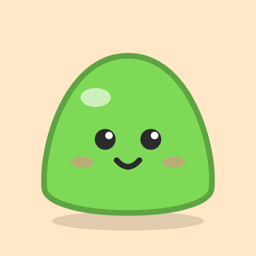
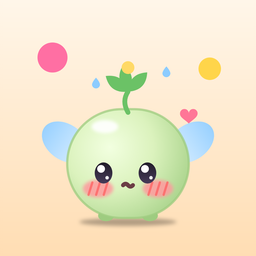
로직 페이지: 주인공을 콩콩으로 (문구, 아이콘)
Claude-Session: https://claude.ai/code/session_01XDRabmtEwRDVm6dcqpEMZ9

diff --git a/logic/index.html b/logic/index.html
@@ -4,10 +4,10 @@
 <meta charset="utf-8">
 <meta name="viewport" content="width=device-width, initial-scale=1, viewport-fit=cover">
 <title>모찌노키 로직 · 카드로 길을 짜는 논리 퍼즐</title>
-<meta name="description" content="젤리 친구 콩과 함께 명령 카드 퍼즐과 정렬 레이스로 논리력과 수학을 키우는 퍼즐 게임.">
+<meta name="description" content="새싹 친구 콩콩과 함께 명령 카드 퍼즐과 정렬 레이스로 논리력과 수학을 키우는 퍼즐 게임.">
 <link rel="canonical" href="https://mochinoki-studio.github.io/logic/">
 <meta property="og:title" content="모찌노키 로직 · 카드로 길을 짜는 논리 퍼즐">
-<meta property="og:description" content="젤리 친구 콩과 함께 명령 카드 퍼즐과 정렬 레이스로 논리력과 수학을 키우는 퍼즐 게임.">
+<meta property="og:description" content="새싹 친구 콩콩과 함께 명령 카드 퍼즐과 정렬 레이스로 논리력과 수학을 키우는 퍼즐 게임.">
 <meta property="og:image" content="https://mochinoki-studio.github.io/logic/assets/img/icon.png">
 <link rel="icon" href="assets/img/favicon.png">
 <link rel="apple-touch-icon" href="assets/img/icon.png">
@@ -23,14 +23,14 @@
       <button type="button" data-mode="system">시스템</button><button type="button" data-mode="light">라이트</button><button type="button" data-mode="dark">다크</button>
     </div>
     <div class="hero-row"><img src="assets/img/icon.png" alt="모찌노키 로직"><h1>카드로 길을 짜고,<br>숫자를 줄 세워요</h1></div>
-    <p class="lead">말랑한 젤리 친구 콩에게 화살표, 반복, 조건 카드를 건네 사탕 상자까지 데려다주세요. 숫자 블록을 바꿔 라이벌 말랑이보다 먼저 정렬해 보세요. 초등 1학년부터 고등 3학년까지, 수학 교육과정을 따라 10개의 월드가 이어져요.</p>
-    <div class="chips"><span>🃏 명령 카드 퍼즐</span><span>🔢 정렬 레이스</span><span>🍬 숫자 사탕 더하기</span><span>🗺 10개 월드</span><span>⭐ 카드가 적을수록 별</span><span>🎨 콩 꾸미기</span><span>🎁 모든 기능 무료</span><span>🙅 광고 없음</span><span>📴 오프라인</span></div>
-    <div class="shots"><figure><img loading="lazy" decoding="async" src="assets/img/home.jpg" alt="말랑한 젤리 친구 콩" width="480" height="1039"><figcaption>말랑한 젤리 친구 콩</figcaption></figure><figure><img loading="lazy" decoding="async" src="assets/img/puzzle.jpg" alt="명령 카드로 길 짜기" width="480" height="1039"><figcaption>명령 카드로 길 짜기</figcaption></figure><figure><img loading="lazy" decoding="async" src="assets/img/race.jpg" alt="말랑이와 정렬 레이스" width="480" height="1039"><figcaption>말랑이와 정렬 레이스</figcaption></figure><figure><img loading="lazy" decoding="async" src="assets/img/clear.jpg" alt="적은 카드로 별 세 개" width="480" height="1039"><figcaption>적은 카드로 별 세 개</figcaption></figure></div>
+    <p class="lead">새싹 친구 콩콩에게 화살표, 반복, 조건 카드를 건네 사탕 상자까지 데려다주세요. 숫자 블록을 바꿔 라이벌 말랑이보다 먼저 정렬해 보세요. 초등 1학년부터 고등 3학년까지, 수학 교육과정을 따라 10개의 월드가 이어져요.</p>
+    <div class="chips"><span>🃏 명령 카드 퍼즐</span><span>🔢 정렬 레이스</span><span>🍬 숫자 사탕 더하기</span><span>🗺 10개 월드</span><span>⭐ 카드가 적을수록 별</span><span>🎨 콩콩 날개 꾸미기</span><span>🎁 모든 기능 무료</span><span>🙅 광고 없음</span><span>📴 오프라인</span></div>
+    <div class="shots"><figure><img loading="lazy" decoding="async" src="assets/img/home.jpg" alt="새싹 친구 콩콩" width="480" height="1039"><figcaption>새싹 친구 콩콩</figcaption></figure><figure><img loading="lazy" decoding="async" src="assets/img/puzzle.jpg" alt="명령 카드로 길 짜기" width="480" height="1039"><figcaption>명령 카드로 길 짜기</figcaption></figure><figure><img loading="lazy" decoding="async" src="assets/img/race.jpg" alt="말랑이와 정렬 레이스" width="480" height="1039"><figcaption>말랑이와 정렬 레이스</figcaption></figure><figure><img loading="lazy" decoding="async" src="assets/img/clear.jpg" alt="적은 카드로 별 세 개" width="480" height="1039"><figcaption>적은 카드로 별 세 개</figcaption></figure></div>
   </header>
 
   <section id="how">
     <h2>이렇게 놀아요</h2>
-    <ol class="steps"><li>판마다 콩이 가야 할 사탕 상자가 있어요. 벽과 숫자 사탕의 위치를 먼저 살펴봐요.</li><li>아래 카드를 눌러 명령을 순서대로 놓아요. 같은 움직임이 되풀이되면 반복 카드에 넣어요.</li><li>실행을 누르면 콩이 카드대로 움직여요. 벽에 부딪히거나 사탕 합이 틀리면 다시 고쳐 봐요.</li><li>도착하면 사용한 카드 수로 별을 받아요. 더 적은 카드로 다시 도전해 별 세 개를 모아요.</li></ol>
+    <ol class="steps"><li>판마다 콩콩이 가야 할 사탕 상자가 있어요. 벽과 숫자 사탕의 위치를 먼저 살펴봐요.</li><li>아래 카드를 눌러 명령을 순서대로 놓아요. 같은 움직임이 되풀이되면 반복 카드에 넣어요.</li><li>실행을 누르면 콩콩이 카드대로 움직여요. 벽에 부딪히거나 사탕 합이 틀리면 다시 고쳐 봐요.</li><li>도착하면 사용한 카드 수로 별을 받아요. 더 적은 카드로 다시 도전해 별 세 개를 모아요.</li></ol>
   </section>
 
   <section id="features">
@@ -38,7 +38,7 @@
     <div class="pair"><div class="mini f1"><h3>🃏 순서대로 생각하기</h3><p>화살표 카드로 시작해 반복 카드, "막힐 때까지" 조건 카드까지. 코딩의 기본 생각법을 퍼즐로 익혀요.</p></div>
 <div class="mini f2"><h3>🔢 정렬 레이스</h3><p>정해진 교환 횟수 안에 블록을 작은 수부터 줄 세워요. 옆끼리만 바꾸는 판, 아무 둘이나 바꾸는 판마다 다른 전략이 필요해요.</p></div>
 <div class="mini f3"><h3>🗺 교육과정을 따라가는 월드</h3><p>숫자 공장, 곱셈 농장, 분수 베이커리부터 함수 연구소, 미적분 썰매 언덕까지. 배우는 순서대로 퍼즐 속 수학이 자라요.</p></div>
-<div class="mini f4"><h3>🎨 나만의 콩</h3><p>콩은 성별이 없는 젤리 생명체예요. 색과 옷, 모자로 마음대로 꾸며요.</p></div></div>
+<div class="mini f4"><h3>🎨 나만의 콩콩</h3><p>콩콩은 모찌 노키의 새싹 친구예요. 날개 색을 골라 마음대로 꾸며요.</p></div></div>
   </section>
 
   <section id="privacy">
@@ -52,7 +52,7 @@
     <div class="note"><ul><li>iPhone·iPad 먼저 출시하고, Android는 그다음에 준비해요.</li><li>10개 월드와 모든 기능이 처음부터 끝까지 무료예요. <a href="pricing.html">무엇이 들어 있는지 보기</a></li><li>광고, 인앱 결제, 확률형 아이템이 없어요.</li><li>힌트만 하루 2번까지 쓸 수 있어요. 스스로 생각해 보는 시간을 지켜 주려고요.</li></ul></div>
   </section>
 
-  <p class="closing">오늘은 카드 몇 장으로<br>콩을 데려다줄 수 있을까요? 🍬</p>
+  <p class="closing">오늘은 카드 몇 장으로<br>콩콩을 데려다줄 수 있을까요? 🍬</p>
   <footer><a href="https://mochinoki-studio.github.io/">← 모찌노키 스튜디오</a> · 모찌노키 로직 · iPhone·iPad 앱 · <a href="https://www.apple.com/legal/internet-services/itunes/dev/stdeula/">이용약관</a> · <a href="https://github.com/mochinoki-studio/mochinoki-studio.github.io/issues">GitHub에서 문의하기</a> · <a href="mailto:hello.mochinoki@gmail.com">hello.mochinoki@gmail.com</a></footer>
 </main>
 <script>

diff --git a/logic/pricing.html b/logic/pricing.html
@@ -18,7 +18,7 @@
 <header class="site"><div><a class="brand" href="./"><img src="assets/img/icon.png" alt="">모찌노키 로직</a><a href="pricing.html" aria-current="page">가격</a><a href="releases.html">업데이트 소식</a><a href="support.html">도움말</a><a href="privacy.html">개인정보 처리방침</a></div></header>
 <main class="doc compare">
   <header><h1>모두 무료예요</h1><p class="soft">모찌노키 로직은 10개 월드와 모든 기능을 무료로 제공해요. 광고도, 인앱 결제도, 계정도 없어요. 단 하나, 힌트만 하루 2번까지 쓸 수 있어요.</p><p class="legend"><span><span class="mk yes">✓</span> 무료로 사용</span><span><span class="mk lim">◐</span> 제한 있음</span></p></header>
-  <section><div class="ptable"><div class="in narrow"><div class="r one head"><span></span><div class="pp best"><b>무료</b><span class="soft">모든 월드 · 모든 기능</span><span class="price">0원</span></div></div><div class="grp">월드</div><div class="r one"><span>초등 월드 1~4 (숫자 공장 · 곱셈 농장 · 분수 베이커리 · 도형 정원)</span><span><span class="mk yes" role="img" aria-label="무료로 사용" title="무료로 사용">✓</span><small>전체</small></span></div><div class="r one"><span>중등 월드 5~7 (방정식 저울탑 · 함수 연구소 · 확률 기상대)</span><span><span class="mk yes" role="img" aria-label="무료로 사용" title="무료로 사용">✓</span><small>전체</small></span></div><div class="r one"><span>고등 월드 8~10 (지수 우주정거장 · 수열 기찻길 · 미적분 썰매 언덕)</span><span><span class="mk yes" role="img" aria-label="무료로 사용" title="무료로 사용">✓</span><small>전체</small></span></div><div class="grp">매일 퍼즐</div><div class="r one"><span>데일리 퍼즐</span><span><span class="mk yes" role="img" aria-label="무료로 사용" title="무료로 사용">✓</span><small>하루 1개</small></span></div><div class="r one"><span>연습 퍼즐 (지금까지 연 월드에서 골고루)</span><span><span class="mk yes" role="img" aria-label="무료로 사용" title="무료로 사용">✓</span><small>하루 5개</small></span></div><div class="grp">도움과 기록</div><div class="r one"><span>힌트</span><span><span class="mk lim" role="img" aria-label="제한 있음" title="제한 있음">◐</span><small>하루 2번 · 매일 오전 9시(한국)에 채워져요</small></span></div><div class="r one"><span>학습 리포트 (어떤 개념에서 막혔는지)</span><span><span class="mk yes" role="img" aria-label="무료로 사용" title="무료로 사용">✓</span></span></div><div class="r one"><span>별과 진행 기록 (기기 안에 저장)</span><span><span class="mk yes" role="img" aria-label="무료로 사용" title="무료로 사용">✓</span></span></div><div class="grp">꾸미기</div><div class="r one"><span>콩의 색 · 옷 · 모자</span><span><span class="mk yes" role="img" aria-label="무료로 사용" title="무료로 사용">✓</span><small>전부</small></span></div><div class="grp">안심</div><div class="r one"><span>광고 · 인앱 결제 · 확률형 아이템 · 계정 없음</span><span><span class="mk yes" role="img" aria-label="무료로 사용" title="무료로 사용">✓</span></span></div><div class="r one"><span>오프라인으로 플레이</span><span><span class="mk yes" role="img" aria-label="무료로 사용" title="무료로 사용">✓</span></span></div></div></div></section>
+  <section><div class="ptable"><div class="in narrow"><div class="r one head"><span></span><div class="pp best"><b>무료</b><span class="soft">모든 월드 · 모든 기능</span><span class="price">0원</span></div></div><div class="grp">월드</div><div class="r one"><span>초등 월드 1~4 (숫자 공장 · 곱셈 농장 · 분수 베이커리 · 도형 정원)</span><span><span class="mk yes" role="img" aria-label="무료로 사용" title="무료로 사용">✓</span><small>전체</small></span></div><div class="r one"><span>중등 월드 5~7 (방정식 저울탑 · 함수 연구소 · 확률 기상대)</span><span><span class="mk yes" role="img" aria-label="무료로 사용" title="무료로 사용">✓</span><small>전체</small></span></div><div class="r one"><span>고등 월드 8~10 (지수 우주정거장 · 수열 기찻길 · 미적분 썰매 언덕)</span><span><span class="mk yes" role="img" aria-label="무료로 사용" title="무료로 사용">✓</span><small>전체</small></span></div><div class="grp">매일 퍼즐</div><div class="r one"><span>데일리 퍼즐</span><span><span class="mk yes" role="img" aria-label="무료로 사용" title="무료로 사용">✓</span><small>하루 1개</small></span></div><div class="r one"><span>연습 퍼즐 (지금까지 연 월드에서 골고루)</span><span><span class="mk yes" role="img" aria-label="무료로 사용" title="무료로 사용">✓</span><small>하루 5개</small></span></div><div class="grp">도움과 기록</div><div class="r one"><span>힌트</span><span><span class="mk lim" role="img" aria-label="제한 있음" title="제한 있음">◐</span><small>하루 2번 · 매일 오전 9시(한국)에 채워져요</small></span></div><div class="r one"><span>학습 리포트 (어떤 개념에서 막혔는지)</span><span><span class="mk yes" role="img" aria-label="무료로 사용" title="무료로 사용">✓</span></span></div><div class="r one"><span>별과 진행 기록 (기기 안에 저장)</span><span><span class="mk yes" role="img" aria-label="무료로 사용" title="무료로 사용">✓</span></span></div><div class="grp">꾸미기</div><div class="r one"><span>콩콩 날개 색</span><span><span class="mk yes" role="img" aria-label="무료로 사용" title="무료로 사용">✓</span><small>전부</small></span></div><div class="grp">안심</div><div class="r one"><span>광고 · 인앱 결제 · 확률형 아이템 · 계정 없음</span><span><span class="mk yes" role="img" aria-label="무료로 사용" title="무료로 사용">✓</span></span></div><div class="r one"><span>오프라인으로 플레이</span><span><span class="mk yes" role="img" aria-label="무료로 사용" title="무료로 사용">✓</span></span></div></div></div></section>
   <section><h2>힌트는 왜 하루 2번인가요?</h2><p>막혔을 때 바로 답을 보기보다, 카드 몇 장을 놓고 실행해 보며 스스로 생각하는 시간이 논리력을 키워요. 힌트는 전 세계 같은 시각인 매일 한국 시간 오전 9시(세계 표준시 UTC 0시)에 다시 2번으로 채워져요.</p></section>
   <section><p class="soft">앱은 App Store에서 무료로 받을 수 있어요. 출시되면 <a href="releases.html">업데이트 소식</a>에 알려 드릴게요.</p>
     <p><a href="https://www.apple.com/legal/internet-services/itunes/dev/stdeula/">이용약관</a> · <a href="privacy.html">개인정보 처리방침</a></p></section>

diff --git a/logic/support.html b/logic/support.html
@@ -18,7 +18,7 @@
 <header class="site"><div><a class="brand" href="./"><img src="assets/img/icon.png" alt="">모찌노키 로직</a><a href="pricing.html">가격</a><a href="releases.html">업데이트 소식</a><a href="support.html" aria-current="page">도움말</a><a href="privacy.html">개인정보 처리방침</a></div></header>
 <main class="doc">
   <header><h1>도움말</h1><p class="soft">모찌노키 로직 자주 묻는 질문과 문의 방법</p></header>
-  <section><dl><div><dt>어떻게 시작하나요?</dt><dd>홈에서 월드를 고르고 열린 판을 눌러요. 아래 카드를 누르면 명령 칸에 순서대로 들어가고, 명령 칸의 카드를 누르면 빠져요. 다 놓았으면 실행을 눌러요.</dd></div><div><dt>반복 카드는 어떻게 쓰나요?</dt><dd>반복 카드를 놓으면 그 안에 카드를 넣는 상태가 돼요. 이때 누르는 카드는 반복 카드 안으로 들어가요. 반복 카드의 숫자를 누르면 횟수가 2에서 9까지 바뀌고, "+ 넣기"를 다시 누르면 맨 뒤에 놓는 상태로 돌아와요.</dd></div><div><dt>별은 어떻게 받나요?</dt><dd>명령 퍼즐은 사용한 카드 수로 정해져요. 가장 적은 카드 수 이하면 별 세 개, 2장 더 쓰면 별 두 개예요. 정렬 레이스는 완성하면 별 하나, 말랑이보다 먼저 끝내면 하나, 가장 적은 횟수로 바꾸면 하나를 더 받아요.</dd></div><div><dt>정말 다 무료인가요?</dt><dd>네. 10개 월드, 데일리 퍼즐, 연습 퍼즐, 학습 리포트, 꾸미기까지 모두 무료예요. 광고와 인앱 결제도 없어요.</dd></div><div><dt>힌트는 몇 번 쓸 수 있나요?</dt><dd>하루 2번까지 쓸 수 있고, 전 세계 같은 시각인 매일 한국 시간 오전 9시(세계 표준시 UTC 0시)에 다시 2번으로 채워져요. 힌트를 다 썼다면 카드 몇 장만 놓고 실행해 보면서 콩이 어디까지 가는지 확인해 보세요.</dd></div><div><dt>너무 어려워요</dt><dd>판 위쪽의 문제 설명을 다시 열어 보세요. 한 번에 다 짜지 말고 카드 몇 장만 놓고 실행해 보면서, 콩이 어디까지 가는지 확인하는 것도 좋은 방법이에요.</dd></div><div><dt>몇 살부터 할 수 있나요?</dt><dd>글자를 조금 읽을 수 있으면 초등 1학년도 혼자 할 수 있게 만들었어요. 월드는 나이가 아니라 수학 교육과정 순서로 나뉘어 있어서 어른도 처음부터 즐길 수 있어요.</dd></div><div><dt>기기를 바꾸면 기록이 옮겨지나요?</dt><dd>지금은 서버가 없어서 별과 진행 기록이 기기 안에만 저장되고 다른 기기로 옮겨지지 않아요.</dd></div><div><dt>기록을 지우고 싶어요</dt><dd>앱을 삭제하면 모든 기록이 지워져요. 자세한 내용은 <a href="privacy.html#destruction">개인정보 처리방침 5항</a>을 봐 주세요.</dd></div></dl></section>
+  <section><dl><div><dt>어떻게 시작하나요?</dt><dd>홈에서 월드를 고르고 열린 판을 눌러요. 아래 카드를 누르면 명령 칸에 순서대로 들어가고, 명령 칸의 카드를 누르면 빠져요. 다 놓았으면 실행을 눌러요.</dd></div><div><dt>반복 카드는 어떻게 쓰나요?</dt><dd>반복 카드를 놓으면 그 안에 카드를 넣는 상태가 돼요. 이때 누르는 카드는 반복 카드 안으로 들어가요. 반복 카드의 숫자를 누르면 횟수가 2에서 9까지 바뀌고, "+ 넣기"를 다시 누르면 맨 뒤에 놓는 상태로 돌아와요.</dd></div><div><dt>별은 어떻게 받나요?</dt><dd>명령 퍼즐은 사용한 카드 수로 정해져요. 가장 적은 카드 수 이하면 별 세 개, 2장 더 쓰면 별 두 개예요. 정렬 레이스는 완성하면 별 하나, 말랑이보다 먼저 끝내면 하나, 가장 적은 횟수로 바꾸면 하나를 더 받아요.</dd></div><div><dt>정말 다 무료인가요?</dt><dd>네. 10개 월드, 데일리 퍼즐, 연습 퍼즐, 학습 리포트, 꾸미기까지 모두 무료예요. 광고와 인앱 결제도 없어요.</dd></div><div><dt>힌트는 몇 번 쓸 수 있나요?</dt><dd>하루 2번까지 쓸 수 있고, 전 세계 같은 시각인 매일 한국 시간 오전 9시(세계 표준시 UTC 0시)에 다시 2번으로 채워져요. 힌트를 다 썼다면 카드 몇 장만 놓고 실행해 보면서 콩콩이 어디까지 가는지 확인해 보세요.</dd></div><div><dt>너무 어려워요</dt><dd>판 위쪽의 문제 설명을 다시 열어 보세요. 한 번에 다 짜지 말고 카드 몇 장만 놓고 실행해 보면서, 콩콩이 어디까지 가는지 확인하는 것도 좋은 방법이에요.</dd></div><div><dt>몇 살부터 할 수 있나요?</dt><dd>글자를 조금 읽을 수 있으면 초등 1학년도 혼자 할 수 있게 만들었어요. 월드는 나이가 아니라 수학 교육과정 순서로 나뉘어 있어서 어른도 처음부터 즐길 수 있어요.</dd></div><div><dt>기기를 바꾸면 기록이 옮겨지나요?</dt><dd>지금은 서버가 없어서 별과 진행 기록이 기기 안에만 저장되고 다른 기기로 옮겨지지 않아요.</dd></div><div><dt>기록을 지우고 싶어요</dt><dd>앱을 삭제하면 모든 기록이 지워져요. 자세한 내용은 <a href="privacy.html#destruction">개인정보 처리방침 5항</a>을 봐 주세요.</dd></div></dl></section>
   <section><h2>문의</h2><p>궁금한 점이나 고장 신고는 아래로 보내 주세요. 고장 신고에는 다음을 적어 주시면 빨리 확인할 수 있어요.</p><ul><li>기기 모델과 OS 버전 (예: iPhone 15, iOS 26.1)</li><li>앱 버전 (설정 › 버전)</li><li>몇 번째 판에서 무엇을 하다가 어떤 일이 일어났는지, 다시 해도 똑같은지</li><li>가능하면 스크린샷이나 화면 녹화</li></ul><ul><li>이메일: <a href="mailto:hello.mochinoki@gmail.com">hello.mochinoki@gmail.com</a></li><li>GitHub 이슈: <a href="https://github.com/mochinoki-studio/mochinoki-studio.github.io/issues">https://github.com/mochinoki-studio/mochinoki-studio.github.io/issues</a> (GitHub 계정이 필요해요. 공개 게시판이라 개인정보는 적지 말아 주세요.)</li></ul></section>
   <footer><a href="https://mochinoki-studio.github.io/">← 모찌노키 스튜디오</a> · 모찌노키 로직 · iPhone·iPad 앱 · <a href="https://www.apple.com/legal/internet-services/itunes/dev/stdeula/">이용약관</a> · <a href="https://github.com/mochinoki-studio/mochinoki-studio.github.io/issues">GitHub에서 문의하기</a> · <a href="mailto:hello.mochinoki@gmail.com">hello.mochinoki@gmail.com</a></footer>
 </main>

diff --git a/logic/privacy.html b/logic/privacy.html
@@ -57,7 +57,7 @@
     <p>게임은 이용자의 단말기 안에서만 동작하는 온디바이스 방식이에요. 아래 정보는 앱 전용 저장 공간에만 저장되고 운영자에게 전송되지 않으며, 앱을 삭제하면 사라져요. 이 정보만으로는 이용자가 누구인지 알 수 없어요.</p>
     <ul>
       <li>게임 진행: 판별로 받은 별 수, 열린 판과 월드</li>
-      <li>꾸미기와 설정: 콩의 색·옷·모자, 효과음·배경 음악 등 설정</li>
+      <li>꾸미기와 설정: 콩콩 날개 색, 효과음·배경 음악 등 설정</li>
       <li>힌트 사용 기록: 오늘 쓴 힌트 수와 날짜(UTC 기준, 하루 2번 제한용)</li>
     </ul>
     <p>앱은 이름, 생년월일, 학년, 연락처, 사진, 위치, 광고 식별자를 묻거나 수집하지 않아요. 카메라, 마이크, 사진, 연락처, 위치 권한도 요청하지 않아요.</p>

diff --git a/logic/privacy/1.0.html b/logic/privacy/1.0.html
@@ -57,7 +57,7 @@
     <p>게임은 이용자의 단말기 안에서만 동작하는 온디바이스 방식이에요. 아래 정보는 앱 전용 저장 공간에만 저장되고 운영자에게 전송되지 않으며, 앱을 삭제하면 사라져요. 이 정보만으로는 이용자가 누구인지 알 수 없어요.</p>
     <ul>
       <li>게임 진행: 판별로 받은 별 수, 열린 판과 월드</li>
-      <li>꾸미기와 설정: 콩의 색·옷·모자, 효과음·배경 음악 등 설정</li>
+      <li>꾸미기와 설정: 콩콩 날개 색, 효과음·배경 음악 등 설정</li>
       <li>힌트 사용 기록: 오늘 쓴 힌트 수와 날짜(UTC 기준, 하루 2번 제한용)</li>
     </ul>
     <p>앱은 이름, 생년월일, 학년, 연락처, 사진, 위치, 광고 식별자를 묻거나 수집하지 않아요. 카메라, 마이크, 사진, 연락처, 위치 권한도 요청하지 않아요.</p>
